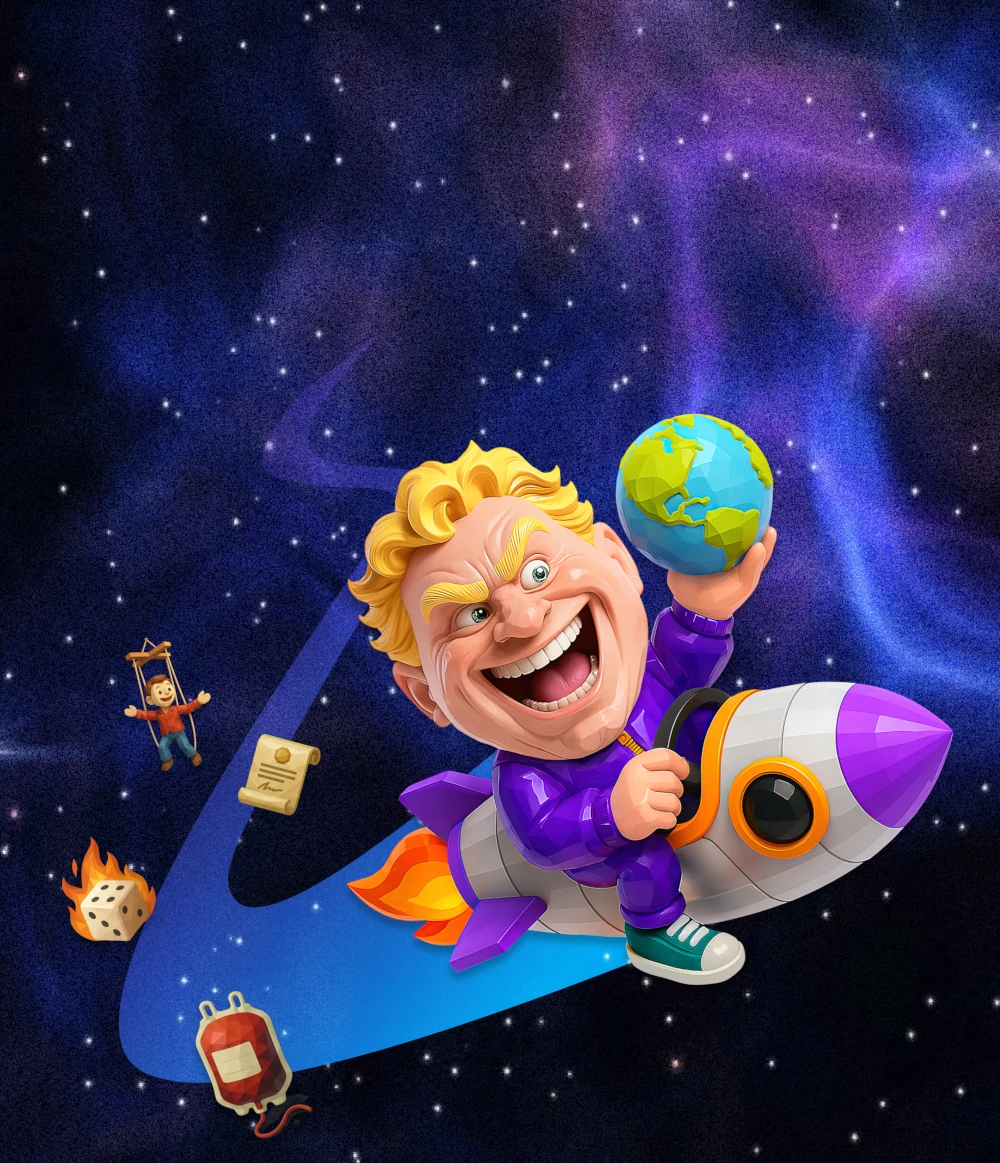
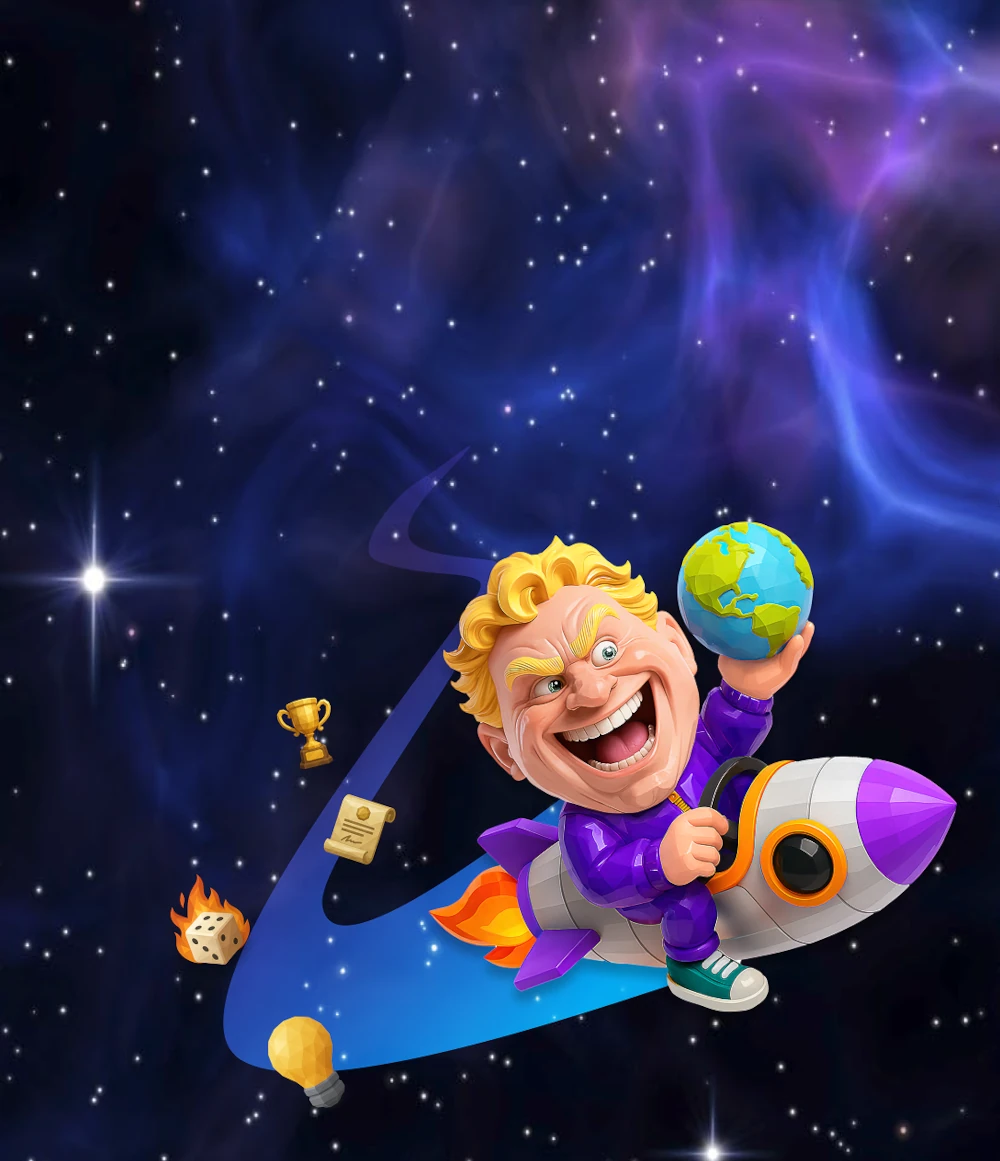
Adding up scrim to "Rocket your Billionaire" and switching asset.

diff --git a/apps/web/src/app/shared-page.tsx b/apps/web/src/app/shared-page.tsx
@@ -5,6 +5,7 @@ import GalleryBentoLarge from '@/components/GalleryBentoLarge';
 import GalleryBentoSmall from '@/components/GalleryBentoSmall';
 import AvatarBento from '@/components/PrimaryFlow/AvatarBento';
 import AvatarBentoV2 from '@/components/PrimaryFlow/AvatarBentoV2';
+import Scrim from '@/components/Scrim';
 import Ticker from '@/components/Ticker';
 import Window from '@/components/Window';
 import type { AvatarData } from '@/types';
@@ -58,7 +59,7 @@ export default async function Home({ avatarData }: PageProps) {
             <AvatarBento {...avatarBentoData} avatarData={avatarData} />
           )}
         </div>
-        <div className="portrait:mb-4 portrait:w-full h-[27.3125rem] landscape:h-full landscape:col-span-5 landscape:row-span-3 landscape:col-start-8 landscape:row-start-1">
+        <div className="portrait:mb-4 portrait:w-full h-[32rem] landscape:h-full landscape:col-span-5 landscape:row-span-3 landscape:col-start-8 landscape:row-start-1">
           <BentoDual
             className="flex w-full h-full"
             back={
@@ -99,17 +100,18 @@ export default async function Home({ avatarData }: PageProps) {
             }
             effect="flip"
             image="/assets/images/rocket.webp"
-            imageSrcPortrait="/assets/images/rocket-portrait.jpg"
             priority
           >
-            <h1 className="text-2xl-custom landscape:text-3xl-custom font-extrabold mr-4 landscape:mr-[2.5rem] mt-12 ml-4 landscape:ml-8">
-              Rocket your Billionaire into a permanent time-out
-            </h1>
-            <p className="text-regular-custom landscape:text-lg-custom mt-4 ml-4 landscape:ml-8 mr-[4rem] landscape:mr-[5.375rem]">
-              Post content of your Billionaire with <strong>@Firefox</strong> and{' '}
-              <strong>#BillionaireBlastOff</strong> for a shot at sending them to actual,
-              for-real-real space.
-            </p>
+            <Scrim className="h-65 bg-contain!">
+              <h1 className="text-2xl-custom landscape:text-3xl-custom font-extrabold mr-4 landscape:mr-[2.5rem] mt-12 ml-4 landscape:ml-8">
+                Rocket your Billionaire into a permanent time-out
+              </h1>
+              <p className="text-regular-custom landscape:text-lg-custom mt-4 ml-4 landscape:ml-8 mr-[4rem] landscape:mr-[5.375rem]">
+                Post content of your Billionaire with <strong>@Firefox</strong> and{' '}
+                <strong>#BillionaireBlastOff</strong> for a shot at sending them to actual,
+                for-real-real space.
+              </p>
+            </Scrim>
           </BentoDual>
         </div>
         <div className="h-[15.625rem] portrait:mb-4 portrait:w-full landscape:h-full landscape:col-span-4 landscape:col-start-1 landscape:row-start-4">
